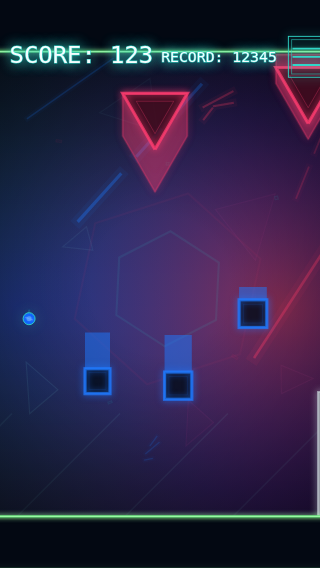
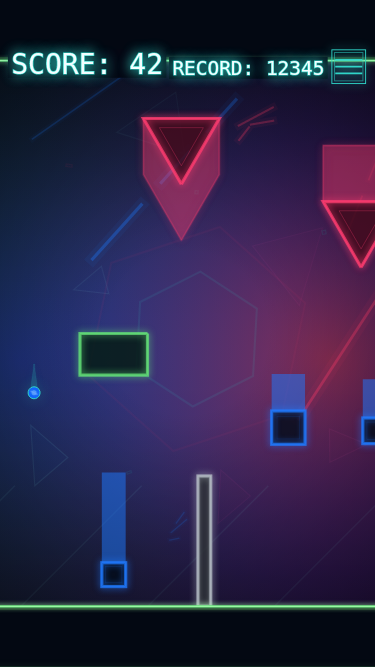
TASK-076: protect bad record HUD text

diff --git a/sprites/scoretext.js b/sprites/scoretext.js
@@ -39,11 +39,13 @@ let scoreText =
         const scoreX = viewWidth * 0.03
         const recordX = this.getRecordX(viewWidth)
         const recordFontSize = this.getRecordFontSize(recordText, scoreTextValue, scoreX, recordX, fontSize, viewWidth)
+        const recordY = this.getRecordCenterY(recordText, topY)
 
+        this.drawBadHudTextBacking(scoreTextValue, scoreX, topY, 'start', fontSize, viewWidth, viewHeight)
+        this.drawBadHudTextBacking(recordText, recordX, recordY, 'end', recordFontSize, viewWidth, viewHeight)
         this.drawHudText(scoreTextValue, scoreX, topY, 'start')
 
         ctx.font = recordFontSize + 'px ' + this.fontFamily
-        const recordY = this.getRecordCenterY(recordText, topY)
 
         this.drawHudText(recordText, recordX, recordY, 'end')
 
@@ -87,6 +89,40 @@ let scoreText =
         ctx.textAlign = align
         ctx.strokeText(text, x, y)
         ctx.fillText(text, x, y)
+    },
+    drawBadHudTextBacking: function(text, x, y, align, fontSize, viewWidth, viewHeight)
+    {
+        if (version != 'bad')
+            return
+
+        ctx.save()
+        ctx.font = fontSize + 'px ' + this.fontFamily
+        ctx.textBaseline = 'middle'
+        const metrics = ctx.measureText(text)
+        const padding = viewHeight * STYLE.ui.hudBadTextBackingPaddingRatio
+        const ascent = metrics.actualBoundingBoxAscent || fontSize * 0.72
+        const descent = metrics.actualBoundingBoxDescent || fontSize * 0.28
+        const textWidth = metrics.width
+        let left = x
+
+        if (align == 'center')
+            left -= textWidth / 2
+        else if (align == 'end')
+            left -= textWidth
+
+        const top = y - ascent
+        const height = ascent + descent
+
+        ctx.shadowBlur = 0
+        ctx.globalAlpha = 1
+        ctx.fillStyle = STYLE.colors.background.gradientTop
+        ctx.fillRect(
+            left - padding,
+            top - padding,
+            textWidth + padding * 2,
+            height + padding * 2
+        )
+        ctx.restore()
     },
     drawStageIndicator: function(viewWidth, topY, fontSize)
     {

diff --git a/style.js b/style.js
@@ -131,6 +131,7 @@ const STYLE = Object.freeze({
         hudRecordXRatio: 0.91,
         hudBadRecordXRatio: 0.865,
         hudBadTextGapRatio: 0.025,
+        hudBadTextBackingPaddingRatio: 0.005,
         hudBadMenuButtonSizeRatio: 0.052,
         hudBadMenuButtonMaxWidthRatio: 0.09,
         hudBadMenuButtonMarginRatio: 0.025,

diff --git a/progress.md b/progress.md
@@ -137,3 +137,4 @@ TASK-078: Removed visual-effects controls from main and pause menus, removed the
 TASK-079: Added a main-menu FPS counter checkbox that toggles the existing counter before starting classic/bad gameplay; verified persistence, off toggle, pause-menu toggle, no console errors, valid JSON, and saved screenshots/TASK-079.png. Gotcha: screenshot intentionally shows the checkbox enabled on the menu to make the new control visible.
 TASK-080: Split FPS counter drawing into an early layer before player trail/world player rendering; verified main-menu and pause toggles, screenshot visibility, source order, no console errors, and valid JSON. Gotcha: the counter intentionally remains at its existing position and can now be visually covered by later gameplay layers if they overlap.
 TASK-081: Added a classic-only inset neon shell to the ceiling band, verified screenshot inspection, forced ceiling-contact restart behavior, bad-version startup, no console errors, and valid JSON. Gotcha: floor shell treatment is still pending separately in TASK-082.
+TASK-076: Added bad-version HUD text backing behind score/record text so gameplay objects cannot visually overlap RECORD; refreshed five phone screenshots and confirmed record centering, score/menu clearance, classic placement, no console errors, and valid JSON. Gotcha: backing padding is intentionally tight to preserve narrow-phone HUD spacing.
